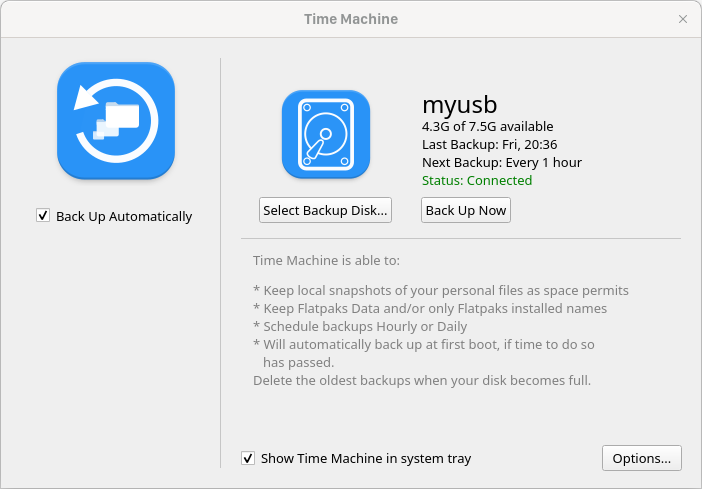
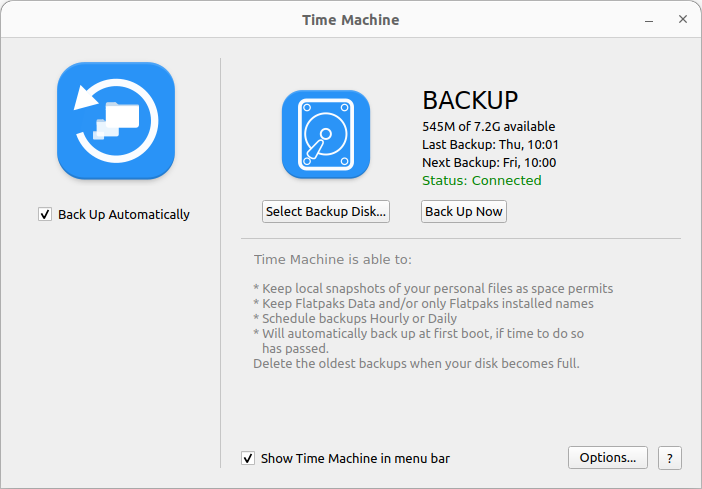
Release candidate

diff --git a/src/mainwindow.py b/src/mainwindow.py
@@ -218,6 +218,7 @@ class MAIN(QMainWindow):
         self.helpButton.setText("?")
         self.helpButton.setFont(QFont("Ubuntu", 10))
         self.helpButton.setFixedSize(24, 24)
+        self.helpButton.setToolTip("Help")
         self.helpButton.clicked.connect(
             lambda: sub.Popen(f"xdg-open {githubHome}", shell=True))
         

diff --git a/README.md b/README.md
@@ -48,6 +48,13 @@ Time Machine ##WILL NOT ERASE YOUR EXTERNAL DEVICE!
 2. Open Time Machine, click on "Select Backup Disk". This can also be done via system tray Time Machine, after enabled.
 3. Then, click on "Back Up Now".
 
+By now, Time Machine will backup:
+* Your files and folders (If you choose to)
+* Flatpaks installed names
+* Flatpaks installed Data (If you choose to) - Not fully tested
+* Wallpaper (Automatic, Only for Gnome) 
+* Theme and Icon (Automatic, Only for Gnome)
+
 #### Packages
 * Inside of "Application" folder, in your backup device, you will find folders: "deb", "rpm" etc.
 These folders was created, so you can manual put ".deb" or ".rpm" packages inside, to be easily restore with
@@ -93,4 +100,3 @@ Example:
 ![](src/screenshots/img.png)
 ![](src/screenshots/img_2.png)
 ![](src/screenshots/img_3.png)
-![](src/screenshots/img_4.png)
